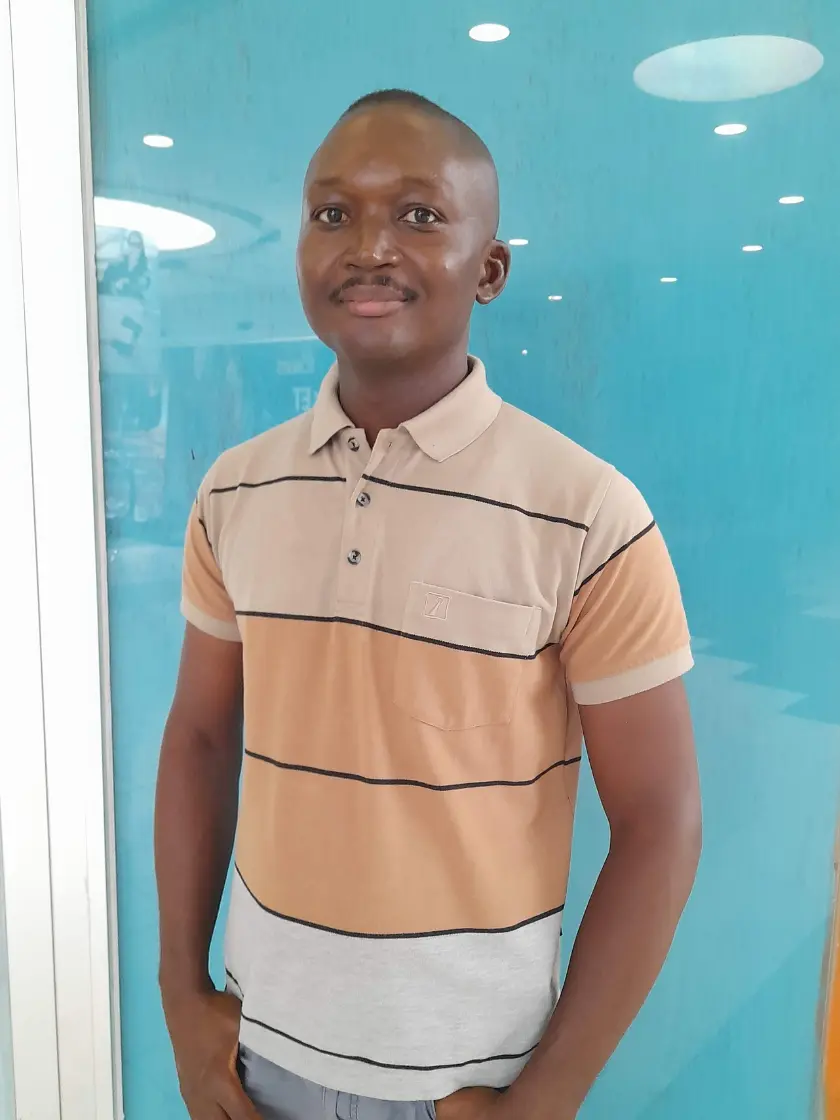
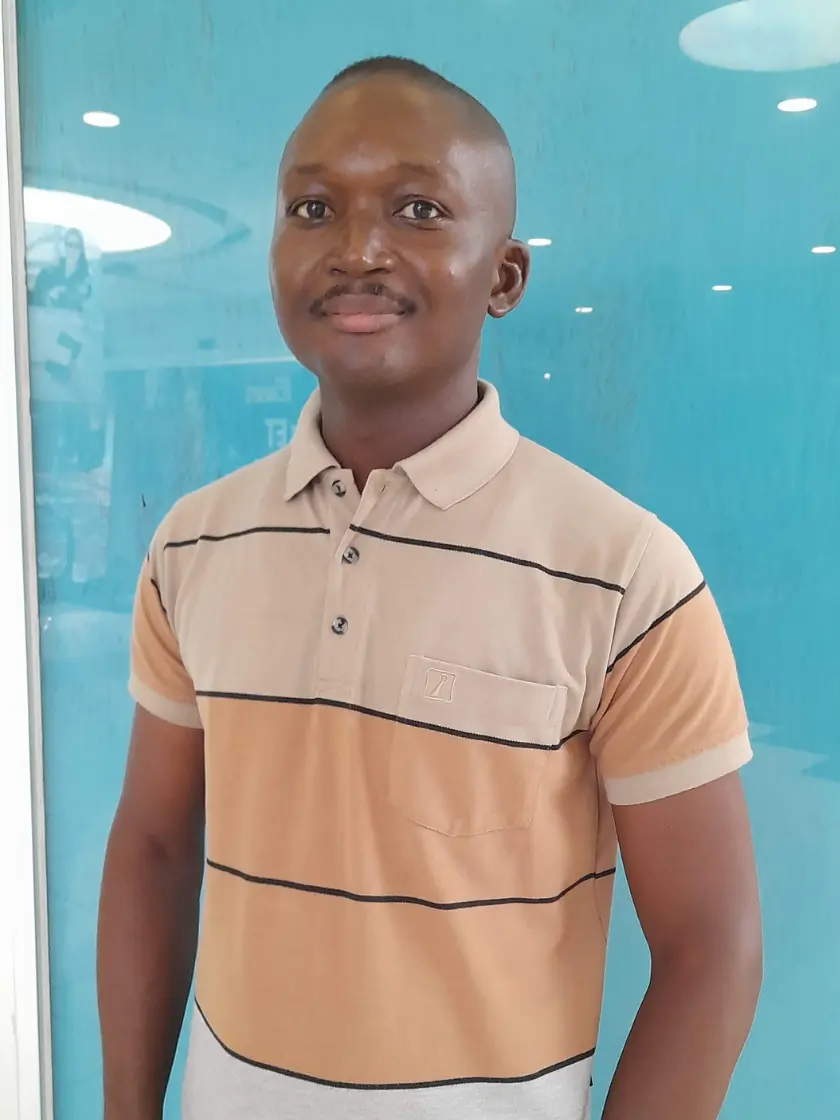
update ben tall image

diff --git a/app/page.js b/app/page.js
@@ -6,7 +6,6 @@ import MySkills from "@/components/MySkills"
 import ContactSection from "@/components/ContactSection"
 import Footer from "@/components/Footer"
 import benTall from "../public/images/ben-nneji-tall.webp"
-import benTallHome from "../public/images/ben-nneji-tall-home.webp"
 import HorizontalRule from "@/components/HorizontalRule"
 import ReadMoreBtnSolid from "@/components/ReadMoreBtnSolid"
 import PortfolioCard from "@/components/PortfolioCard"
@@ -45,8 +44,8 @@ export default function Home() {
           <Link href="/about"><ReadMoreBtnSolid /></Link>
         </div>
         <div className="flex flex-1 justify-end md:justify-center md:mb-12 sm:mb-8">
-          <div className="max-w-[70%] xl:max-w-[80%] lg:max-w-[90%] md:max-w-[70%] sm:max-w-full border-8 border-solid border-[#8ECAE6] rounded-[272.5px] flex">
-            <Image src={benTallHome} alt="Photo of Ben Nneji standing" className="rounded-[272.5px] object-cover"/>
+          <div className="max-w-[60%] xl:max-w-[80%] lg:max-w-[90%] md:max-w-[70%] sm:max-w-full border-8 border-solid border-[#8ECAE6] rounded-[272.5px] flex">
+            <Image src={benTall} alt="Photo of Ben Nneji standing" className="rounded-[272.5px] object-cover"/>
           </div>
         </div>
       </section>
